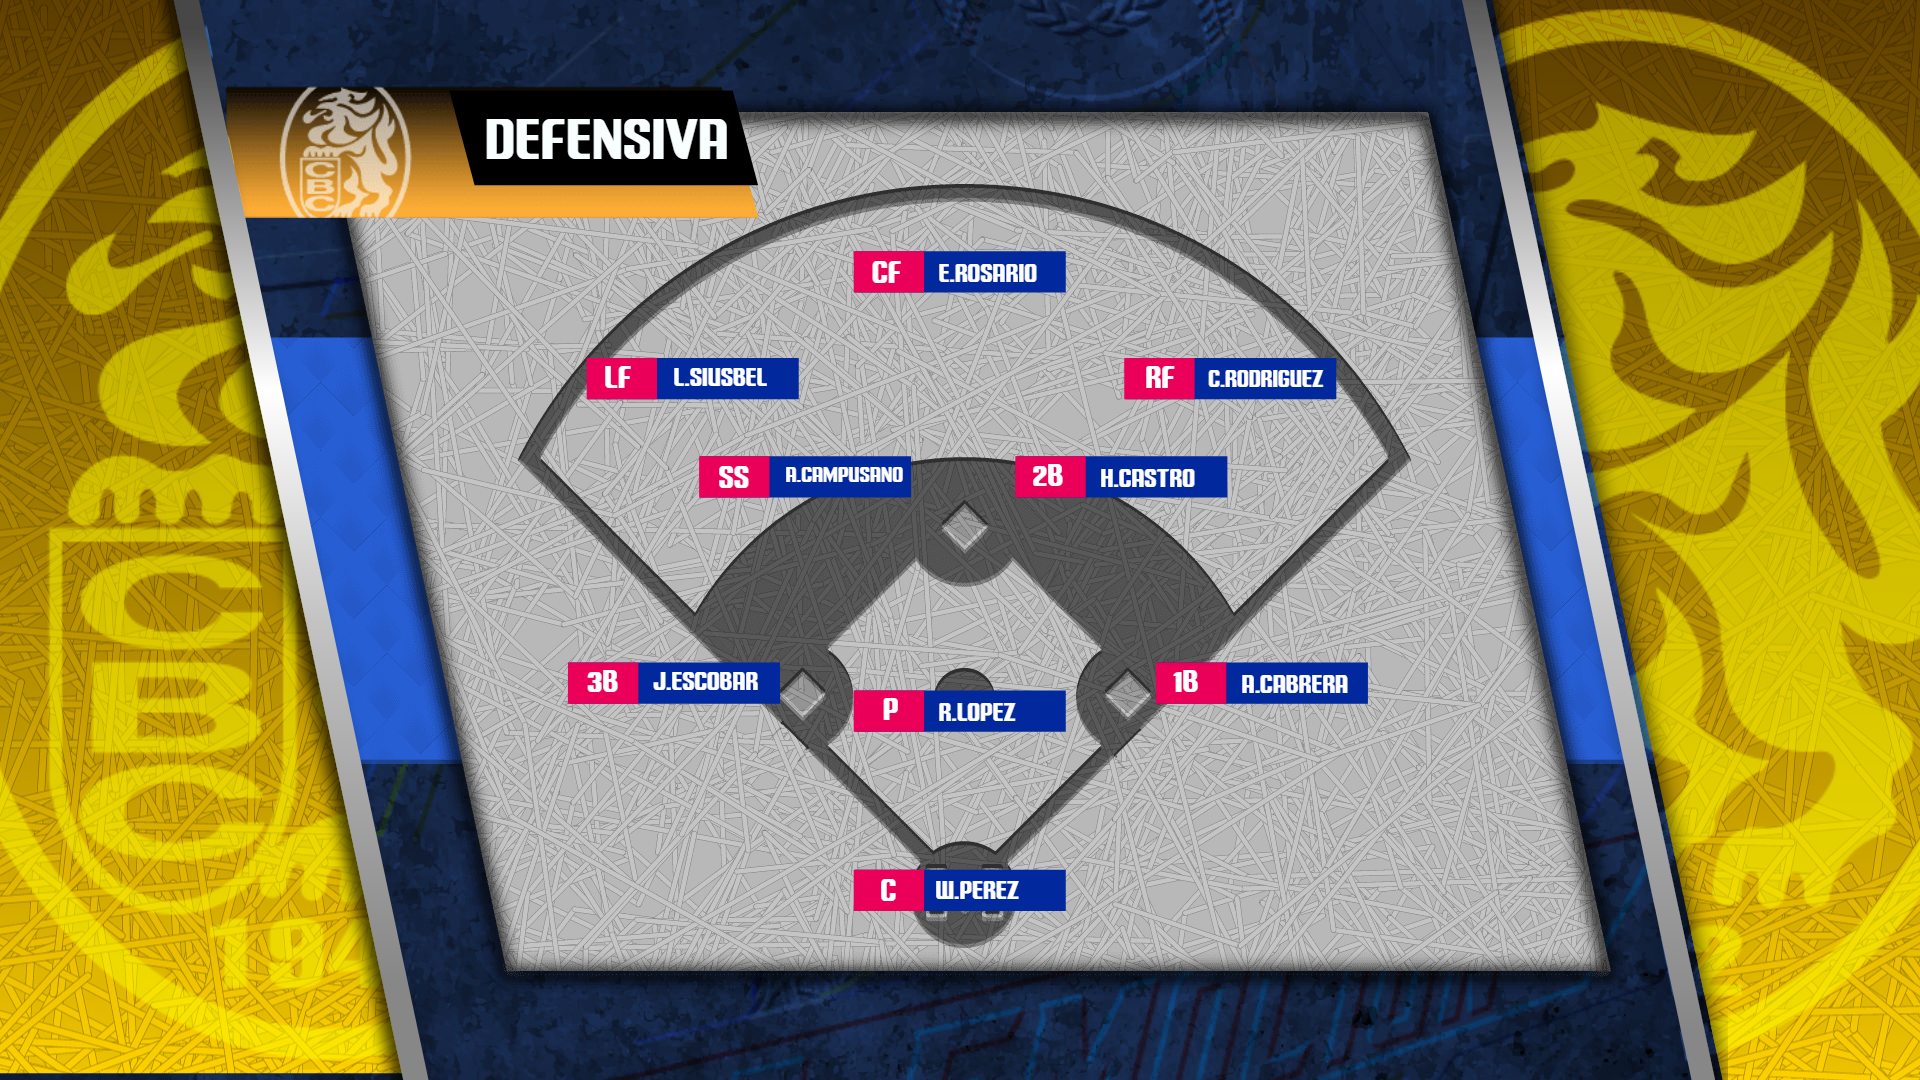
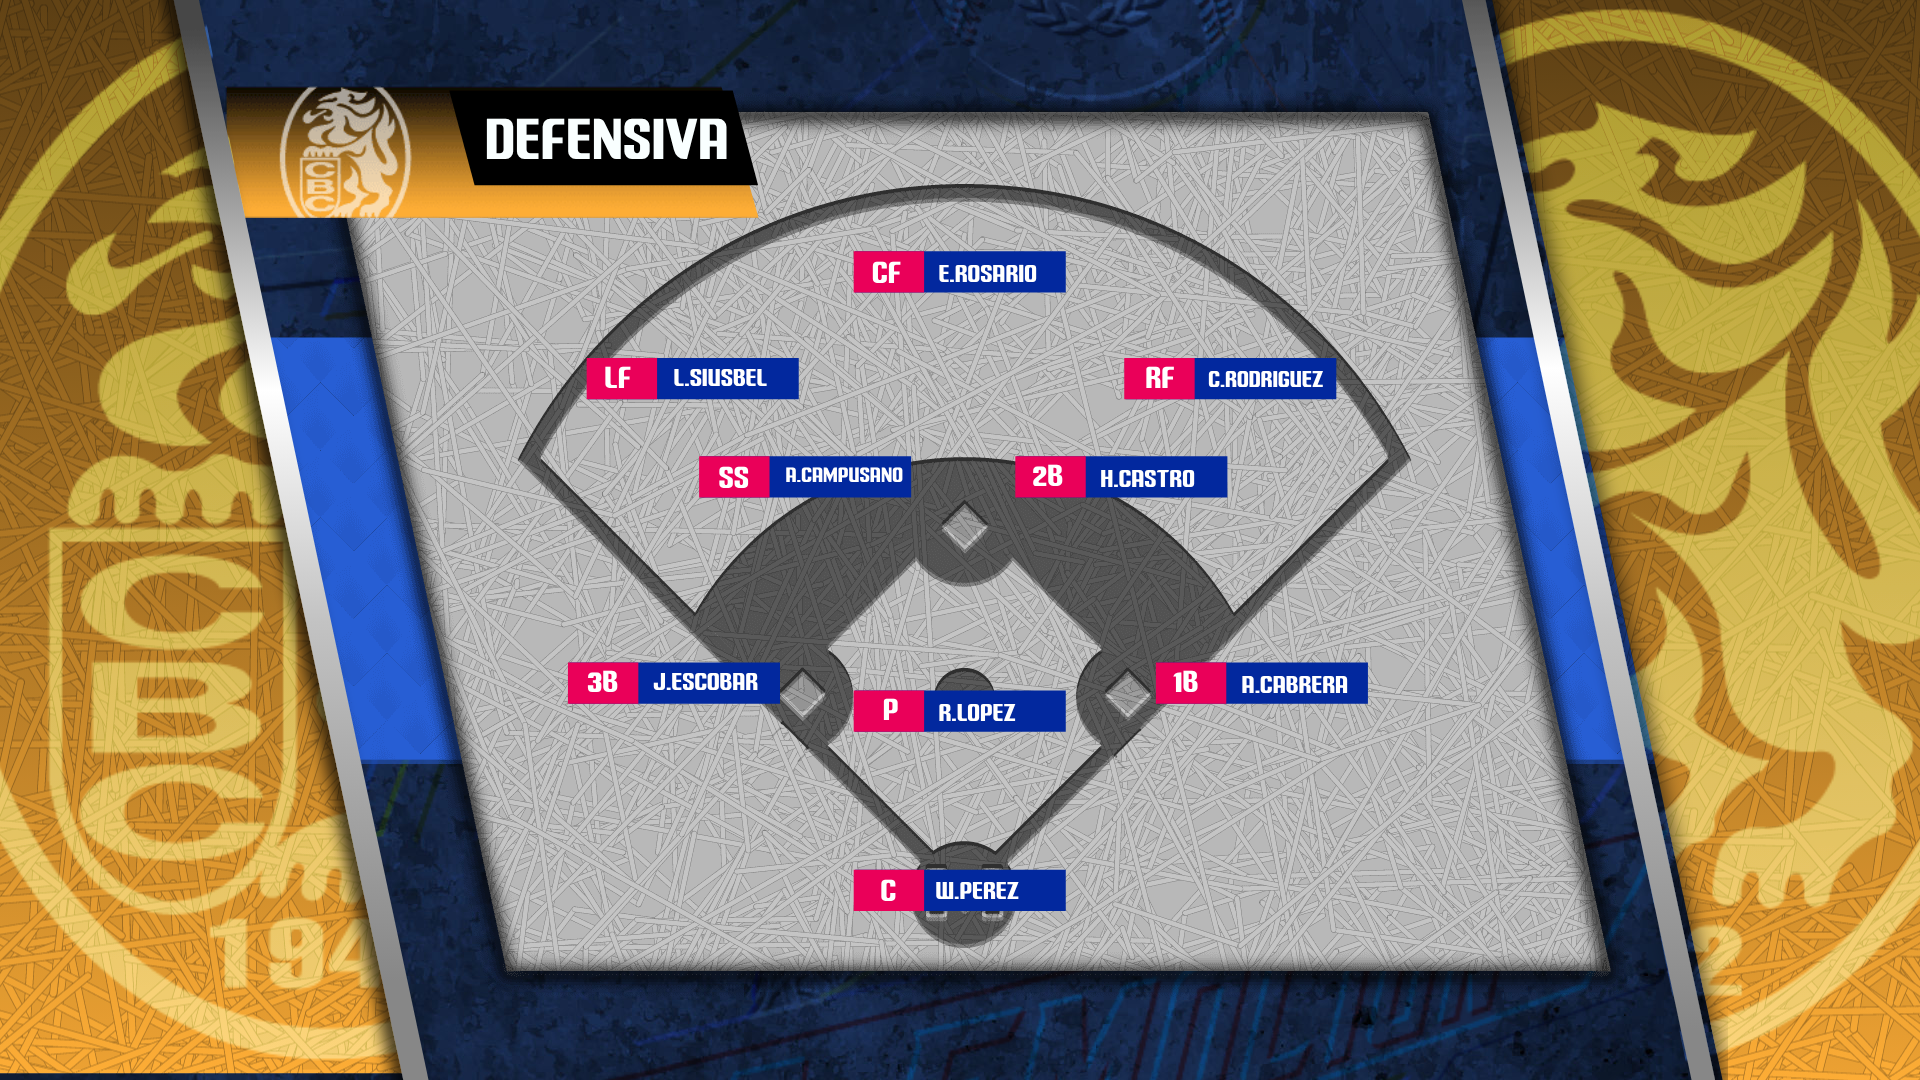
Leones del ámbar de su barra en las puertas y el fondo del bateador
Las puertas de Leones (ofensiva y defensiva) y el fondo del bateador
llegaban amarillos (#FFD200, tono 49°) y su barra es ámbar (#FDAD36,
36°), la misma en los cuatro gráficos. Van con el tono de la barra y
el brillo del diseño, como Águilas en v0.0.6: el claro es la barra
llevada a 255 (#FFAE36) y los otros dos stops en la proporción del
export. En NTSC compuesto, lo más alto de las puertas baja de 123 IRE
a 106.

prep.js: AGUI_COLOR / AGUI_COLOR_EXPORT pasan a un mapa por equipo,
COLOR_PUERTA. Sin los exports a mano, el cambio va también a los tres
data.json preparados (el bateador con los stops dados vuelta).

QA: los otros 7 equipos y sin equipo, idénticos al píxel contra HEAD
en los tres gráficos; ciclo de vida, cambio de equipo al aire y
CasparCG 2.5.1 (suelta el layer en 3,2 s, 1,9 s y 3,1 s). Capturas de
Leones y de los 8 equipos regeneradas.

Claude-Session: https://claude.ai/code/session_01WHWs2fSQMqpMEuoTgwk4Hf

diff --git a/herramientas/prep.js b/herramientas/prep.js
@@ -496,14 +496,23 @@ const OF_ESCUDOS = {
     TIGRES: 'compuerta_tigres.png'
 };
 const ENTRADA_OF = 90;                 // la entrada termina en el 89 (el mánager)
-// Las puertas de Águilas llegan ámbar (#FF8400, tono 31°), y no del naranja rojizo de su barra
-// (#F64D25, 12°), que es el mismo en los cuatro gráficos: en los otros equipos la puerta es del tono
-// de su barra. Van con el tono de la barra y el brillo que el diseñador le dio a Águilas (Leon,
-// 2026-10-17): el claro es la barra llevada a 255 (#FF5026), y los otros dos stops, en la misma
-// proporción que en el export (0.133 y 0.57 del claro). La defensiva y el bateador las toman de acá.
-// Los stops como en el JSON: posición, r, g, b (0–1).
-const AGUI_COLOR_EXPORT = [0, 0.133, 0.075, 0, 0.61, 0.567, 0.296, 0, 1, 1, 0.518, 0];
-const AGUI_COLOR = [0, 0.133, 0.043, 0.02, 0.61, 0.569, 0.176, 0.086, 1, 1, 0.314, 0.149];
+// Las puertas que no llegan del tono de su barra, que es el mismo en los cuatro gráficos: las de
+// Águilas, ámbar (#FF8400, tono 31°) y no del naranja rojizo de la barra (#F64D25, 12°), y las de
+// Leones, amarillas (#FFD200, 49°) y no del ámbar de la barra (#FDAD36, 36°). Van con el tono de la
+// barra y el brillo que el diseñador le dio a cada equipo (Leon, 2026-10-17): el claro es la barra
+// llevada a 255 (#FF5026, #FFAE36), y los otros dos stops, en la misma proporción que en el export
+// (Águilas, 0.133 y 0.57 del claro; Leones, 0.384 y 0.69). La defensiva y el bateador las toman de
+// acá. Los stops como en el JSON: posición, r, g, b (0–1); `export`, el degradado que llega.
+const COLOR_PUERTA = {
+    AGUI: {
+        export: [0, 0.133, 0.075, 0, 0.61, 0.567, 0.296, 0, 1, 1, 0.518, 0],
+        color: [0, 0.133, 0.043, 0.02, 0.61, 0.569, 0.176, 0.086, 1, 1, 0.314, 0.149]
+    },
+    LEO: {
+        export: [0, 0.384, 0.253, 0, 0.5, 0.692, 0.538, 0, 1, 1, 0.824, 0],
+        color: [0, 0.384, 0.263, 0.082, 0.5, 0.69, 0.471, 0.145, 1, 1, 0.682, 0.212]
+    }
+};
 // Un escudo de compuerta para otro equipo, a partir de la capa de uno que vino en el export: la
 // misma puerta, lugar y escala, centrado en su imagen. La máscara corta por la misma diagonal (la
 // costura entre las puertas), alargada para cubrir una imagen de cualquier alto.
@@ -555,11 +564,12 @@ if (hay('OFENSIVA')) {
         if (!PUERTA[m[2]]) throw new Error(`pantalla de equipo desconocido ${l.nm}`);
         if (m[1] === 'DER') complementaria(l);
         rename(d, l.nm, PUERTA[m[2]] + '_opacidad');
-        if (PUERTA[m[2]] === 'AGUI') {
+        const color = COLOR_PUERTA[PUERTA[m[2]]];
+        if (color) {
             const g = l.shapes[0].it.find(s => s.ty === 'gf').g;
-            if (g.p !== 3 || g.k.a || JSON.stringify(g.k.k) !== JSON.stringify(AGUI_COLOR_EXPORT))
-                throw new Error(`${l.nm}: el degradado de Águilas no es el del export del 2026-10-15: revisar AGUI_COLOR`);
-            g.k.k = [...AGUI_COLOR];
+            if (g.p !== 3 || g.k.a || JSON.stringify(g.k.k) !== JSON.stringify(color.export))
+                throw new Error(`${l.nm}: el degradado no es el del export del 2026-10-15: revisar COLOR_PUERTA`);
+            g.k.k = [...color.color];
         }
     }
     // Los escudos que faltan, con las capas del de Águilas (el único del export).

diff --git a/CLAUDE.md b/CLAUDE.md
@@ -20,10 +20,11 @@ UPDATE están en su `data.md`.
 
 Cómo se ve, en [capturas/](capturas/): `score.png` (pantalla completa con data de ejemplo y la barra
 arriba), `score_marcador.png` (sin la barra) y `score_equipos.png` (los 56 cruces `visita_vs_local`),
-del 2026-10-17; `defensiva.png` / `ofensiva.png` (Leones, con nombres de ejemplo), del 2026-10-15, y
+del 2026-10-17; `defensiva.png` / `ofensiva.png` (Leones, con nombres de ejemplo) y
 `defensiva_equipos.png` / `ofensiva_equipos.png` (los 8 equipos), del 2026-10-17; `bateador.png`
-(Leones, con data de ejemplo), del 2026-10-16, y `bateador_equipos.png` (los 8 equipos, recortado a
-la barra), del 2026-10-17. Si un gráfico cambia, hay que regenerarlas. No entran al zip (`.gitattributes`).
+(Leones, con data de ejemplo) y `bateador_equipos.png` (los 8 equipos, recortado a la barra), del
+2026-10-17. Si un gráfico cambia, hay que regenerarlas (las de Leones, con el ejemplo de su `data.md`,
+en el último frame de la entrada). No entran al zip (`.gitattributes`).
 
 No hay video de referencia del diseñador, y ningún export trae salida (los markers `stop` del score,
 90–120, de la defensiva, 60–90, y de la ofensiva y el bateador, 90–120, no animan nada) ni la bajada de la barra
@@ -131,13 +132,18 @@ siete son los PNG blancos de la defensiva (`images/compuerta_<equipo>.png`), con
 (en AE pasaría lo mismo). Su escudo va al 95 % (`GRIS_EQUIPO` en `prep.js`) y se ve como el de
 Tiburones o Magallanes; lo eligió Leon el 2026-10-15 entre 72,5, 85, 90 y 95.
 
-Color de Águilas: la barra es el mismo naranja rojizo en los cuatro gráficos (`#F64D25`, tono 12°),
-pero las puertas llegaban ámbar (`#FF8400`, 31°), y con ellas las de la defensiva y el fondo del
-bateador; en los otros equipos la puerta es del tono de su barra. Van con el tono de la barra y el
-brillo que el diseñador le dio a Águilas: el claro, `#FF5026` (la barra llevada a 255), y los otros
-dos stops en la proporción del export (`AGUI_COLOR` en `prep.js`). Lo eligió Leon el 2026-10-17 entre
-ése y uno más oscuro, como Caribes, que quedaba casi igual a Caribes. Leones también se corre un
-poco (barra ámbar `#FDAD36`, puerta amarilla `#FFD200`): quedó como está.
+Color de Águilas y Leones: cada barra es del mismo color en los cuatro gráficos, y en los otros seis
+equipos la puerta es del tono de su barra, pero en éstos dos no: Águilas tiene la barra naranja
+rojiza (`#F64D25`, tono 12°) y las puertas llegaban ámbar (`#FF8400`, 31°); Leones, la barra ámbar
+(`#FDAD36`, 36°) y las puertas amarillas (`#FFD200`, 49°). Con ellas, las de la defensiva y el fondo
+del bateador. Van con el tono de la barra y el brillo que el diseñador le dio a cada uno: el claro
+es la barra llevada a 255 (`#FF5026`, `#FFAE36`) y los otros dos stops, en la proporción del export
+(`COLOR_PUERTA` en `prep.js`). Los eligió Leon el 2026-10-17, cada uno entre ése y uno más oscuro (el
+de Águilas, como Caribes, quedaba casi igual a Caribes). En NTSC compuesto, lo más alto de las
+puertas de Leones (con el escudo) baja de 123 IRE a 106, lo de su barra. En el bateador, el escudo
+de Leones (en *overlay*) sigue pasando un poco de 120 en sus brillos (121, antes 131): el *overlay*
+lleva a 255 el rojo y el verde del amarillo debajo de lo blanco del escudo, y con el fondo más
+oscuro (al 80 %) pasaba en más lugares.
 
 Textos: nombre y apellido, como en el diseño y en Meridiano (`ALÍ CASTILLO`). Al tamaño del diseño
 entran unas 21 letras en las filas (`ALEXANDER MONASTERIOS` entra) y 19 en el mánager; más largos
@@ -271,9 +277,10 @@ el `<image>`. El Fill sólo cambia el escudo, sin costo de frames medible en la 
   la de abajo tiene la izquierda 4 px corrida).
 - **Máscaras invertidas:** las 9 pantallas de la derecha, como la puerta de la defensiva
   (`complementaria()`, compartida): tapaban el centro con una franja del color del equipo.
-- **Color de Águilas:** sus pantallas llegan ámbar: van con `AGUI_COLOR`, el tono de su barra (ver
-  arriba). `prep.js` falla si el degradado del export cambia (`AGUI_COLOR_EXPORT`): mirar el color
-  nuevo antes de volver a pisarlo. La defensiva y el bateador lo toman de la ofensiva preparada.
+- **Color de Águilas y Leones:** sus pantallas llegan de otro tono que su barra: van con
+  `COLOR_PUERTA` (`color`), el tono de la barra (ver arriba). `prep.js` falla si el degradado del
+  export cambia (`COLOR_PUERTA`, `export`): mirar el color nuevo antes de volver a pisarlo. Para otro
+  equipo, sumar sus siglas al mapa. La defensiva y el bateador lo toman de la ofensiva preparada.
 - **Escudos:** el de Águilas viene en el export (`images/img_0.png`, con sus máscaras); los otros
   siete los arma `escudoClonado()` con sus capas: centrado en su imagen y la máscara por la misma
   diagonal, alargada para cubrir cualquier alto. 49 % al CSS y Fill gris, como en la defensiva
@@ -314,8 +321,9 @@ el título del export): igual salvo 1 o 2 niveles de 255 en el escudo.
   (`ofensiva/data.json`), con los stops dados vuelta (la puerta va de oscuro en 0, arriba, a claro
   en 1; el fondo, claro en 0, abajo). Las posiciones del degradado (`s`, `e`) quedan las del export.
   `prep.js` prepara la ofensiva antes que el bateador: si llegan los dos juntos, alcanza con una vez.
-  El de Águilas es el `AGUI_COLOR` de la ofensiva (2026-10-17): sin el export del bateador a mano, se
-  le pasó al JSON preparado, igual que a la defensiva, con los stops dados vuelta como acá.
+  Los de Águilas y Leones son el `COLOR_PUERTA` de la ofensiva (2026-10-17): sin el export del
+  bateador a mano, se le pasaron al JSON preparado, igual que a la defensiva, con los stops dados
+  vuelta como acá.
 - **Escudo de Tigres:** de *overlay* (`bm` 3) a *color dodge* (6), con el Fill gris al 85 % (ver
   arriba).
 - **Barras:** aparecen cuando empiezan a moverse (frame 11, su primer keyframe): antes, su punta
